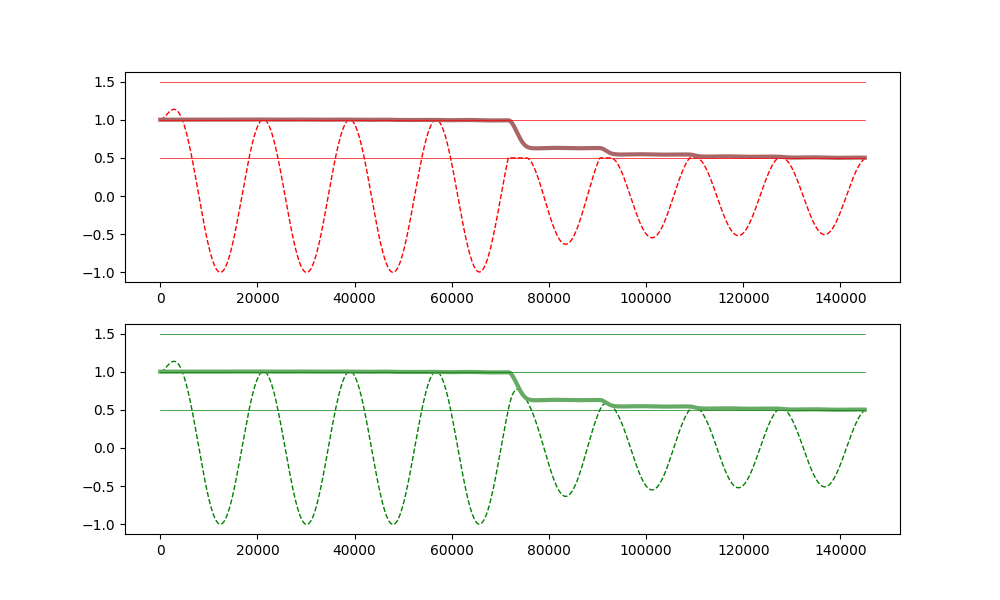
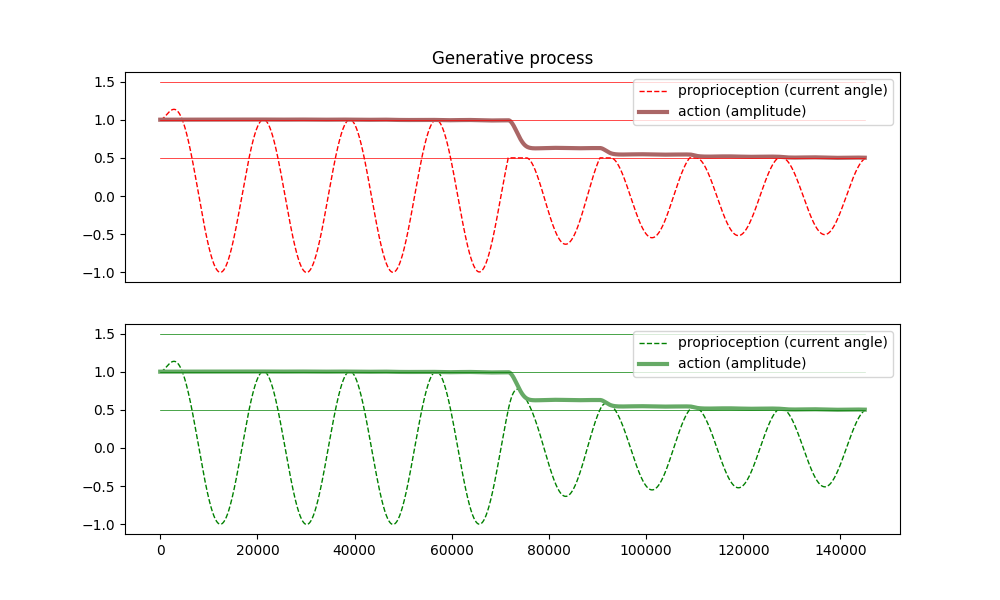
readme

diff --git a/demo.py b/demo.py
@@ -1,9 +1,9 @@
+from sim import Sim
+from aisailib import GP, GM
+import matplotlib.pyplot as plt
 import numpy as np
 import matplotlib
 matplotlib.use("Agg")
-import matplotlib.pyplot as plt
-from aisailib import GP, GM
-from sim import Sim
 
 # %%
 gp = GP(eta=0.0005, freq=0.5, amp=1)
@@ -44,15 +44,21 @@ for t in range(stime):
 
 plt.figure(figsize=(10, 6))
 plt.subplot(211)
-plt.plot(sens, c="red", lw=1, ls="dashed")
-plt.plot(ampl, c="#aa6666", lw=3)
+plt.title("Generative process")
+s, = plt.plot(sens, c="red", lw=1, ls="dashed")
+a, = plt.plot(ampl, c="#aa6666", lw=3)
 plt.plot([0, stime], [1.5, 1.5], c="red", lw=0.5)
 plt.plot([0, stime], [1, 1], c="red", lw=0.5)
 plt.plot([0, stime], [0.5, 0.5], c="red", lw=0.5)
+plt.xticks([])
+plt.legend([s, a], ["proprioception (current angle)",
+                    "action (amplitude)"])
 plt.subplot(212)
-plt.plot(sens_model, c="green", lw=1, ls="dashed")
-plt.plot(ampl_model, c="#66aa66", lw=3)
+x, = plt.plot(sens_model, c="green", lw=1, ls="dashed")
+n, = plt.plot(ampl_model, c="#66aa66", lw=3)
 plt.plot([0, stime], [1.5, 1.5], c="green", lw=0.5)
 plt.plot([0, stime], [1, 1], c="green", lw=0.5)
 plt.plot([0, stime], [0.5, 0.5], c="green", lw=0.5)
+plt.legend([x, n], ["proprioception (current angle)",
+                    "action (amplitude)"])
 plt.savefig("demo.png")

diff --git a/README.md b/README.md
@@ -1,1 +1,5 @@
 # Active-Inference-In-Continuous-Time-With-Whiskers
+
+## demo
+<img src="demo.gif"/>
+<img src="demo.png"/>
